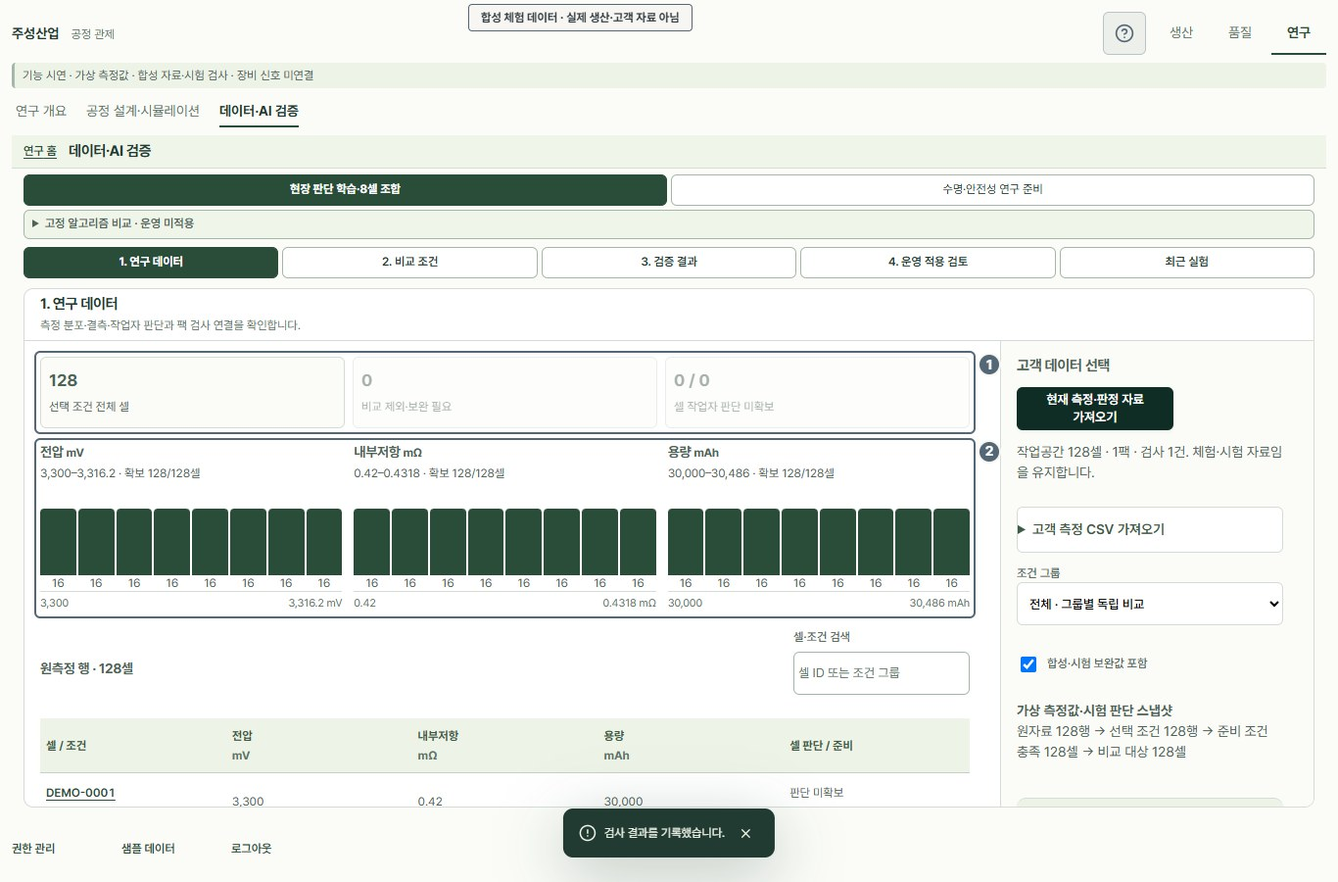
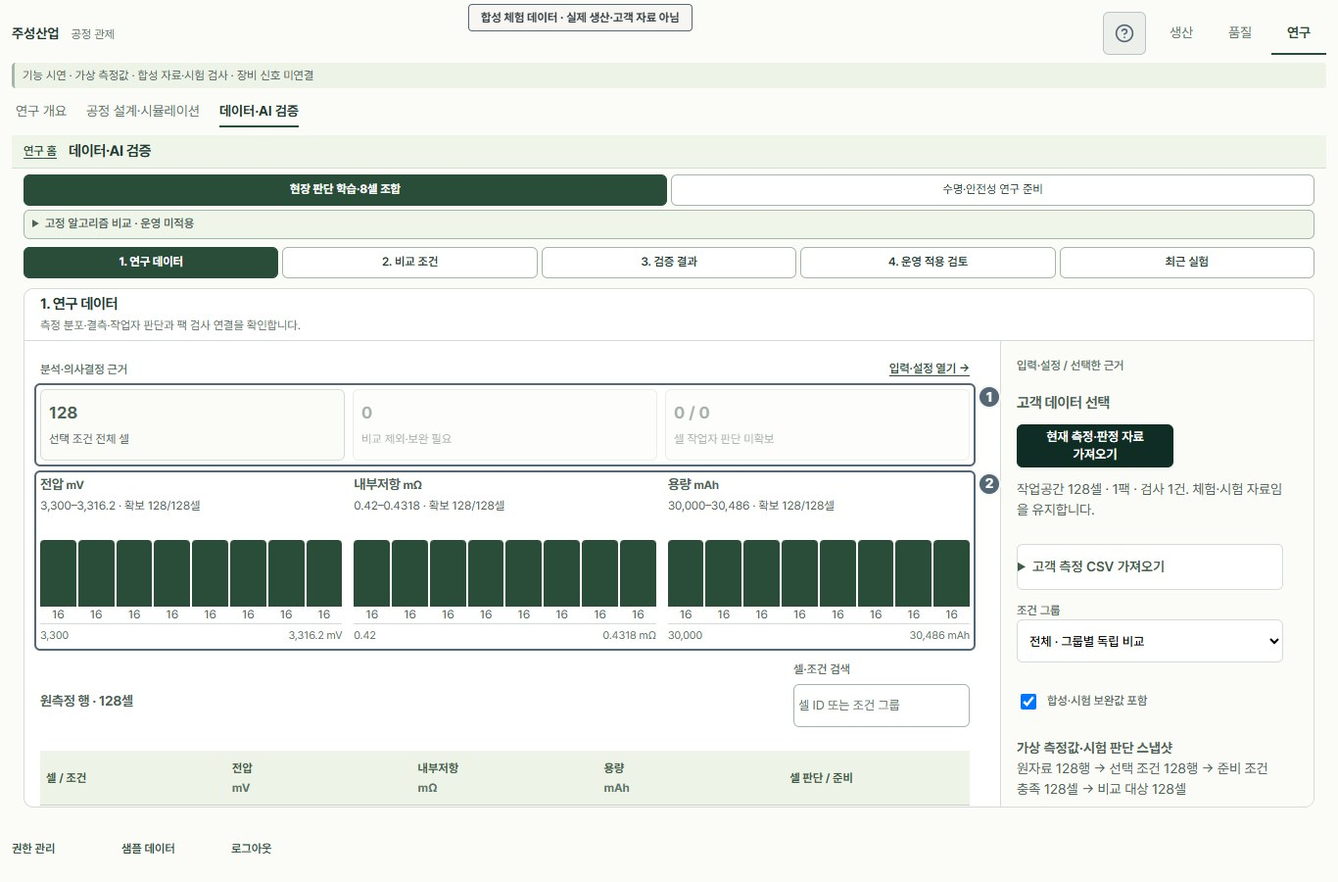
Make research analysis purpose visible before data selection

diff --git a/src/ResearchLab.tsx b/src/ResearchLab.tsx
@@ -1,4 +1,5 @@
 import {useEffect,useRef,useState,type ReactNode,type CSSProperties} from 'react';
+import DecisionPreview from './research/DecisionPreview';
 import FilePicker from './FilePicker';
 import TaskSteps from './TaskSteps';
 import SourceReference from './research/SourceReference';
@@ -20,8 +21,10 @@ const mean=(xs:number[])=>xs.length?xs.reduce((a,b)=>a+b,0)/xs.length:0;
 function Workspace({title,description,left,right,selectionKey,detailVisit}:{title:string;description:string;left:ReactNode;right:ReactNode;selectionKey:string;detailVisit:number}){
  const [pane,setPane]=useState<'evidence'|'controls'>('evidence');const controlRef=useRef<HTMLElement>(null);
  useEffect(()=>{controlRef.current?.scrollTo({top:0});},[selectionKey]);
+ useEffect(()=>{const panel=controlRef.current?.closest('.task-step-panel');if(!panel)return;const observer=new MutationObserver(()=>{if(!panel.hasAttribute('hidden')){controlRef.current?.scrollTo({top:0});setPane('evidence');}});observer.observe(panel,{attributes:true,attributeFilter:['hidden']});return()=>observer.disconnect();},[]);
+ function openInput(){setPane('controls');requestAnimationFrame(()=>{const el=controlRef.current;if(!el)return;el.scrollTo({top:0});const upload=el.querySelector<HTMLDetailsElement>('.research-import');if(upload){upload.open=true;upload.querySelector<HTMLInputElement>('input')?.focus();}});}
  useEffect(()=>{if(detailVisit&&!controlRef.current?.closest('.task-step-panel')?.hasAttribute('hidden'))setPane('controls');controlRef.current?.scrollTo({top:0});},[detailVisit]);
- return <section className="panel field-study-panel"><header className="field-study-heading"><h2>{title}</h2><p>{description}</p></header><nav className="field-mobile-tabs" aria-label={`${title} 화면`}><button aria-pressed={pane==='evidence'} onClick={()=>setPane('evidence')}>분석 근거</button><button aria-pressed={pane==='controls'} onClick={()=>{setPane('controls');requestAnimationFrame(()=>controlRef.current?.scrollTo({top:0}));}}>입력·선택 상세</button></nav><div className={`research-body field-study-workspace field-pane-${pane}`}><section className="field-study-analysis" aria-label={`${title} 분석 근거`}>{left}</section><aside ref={controlRef} className="field-study-controls" aria-label={`${title} 입력과 선택 상세`}>{right}</aside></div></section>;
+ return <section className="panel field-study-panel"><header className="field-study-heading"><h2>{title}</h2><p>{description}</p></header><nav className="field-mobile-tabs" aria-label={`${title} 화면`}><button aria-pressed={pane==='evidence'} onClick={()=>setPane('evidence')}>분석 근거</button><button aria-pressed={pane==='controls'} onClick={()=>{setPane('controls');requestAnimationFrame(()=>controlRef.current?.scrollTo({top:0}));}}>입력·선택 상세</button></nav><div className={`research-body field-study-workspace field-pane-${pane}`}><section className="field-study-analysis" aria-label={`${title} 분석 근거`}><div className="field-analysis-toolbar"><span className="field-region-label">분석·의사결정 근거</span><button className="text-button" onClick={openInput}>입력·설정 열기 →</button></div>{left}</section><aside ref={controlRef} className="field-study-controls" aria-label={`${title} 입력과 선택 상세`}>{!selectionKey&&<div className="field-region-label">입력·설정 / 선택한 근거</div>}{right}</aside></div></section>;
 }
 function evidenceFrom(d:Dataset):FieldEvidence{const saved=d.field_evidence as FieldEvidence|undefined;return saved?.rows? saved:{title:d.title,captured_at:'',rows:d.cells.map((c,i)=>({...c,row:i+1,source:'기존 연구 기록',status:'연구 입력',issues:[]})),packs:[],inspections:[]};}
 export default function ResearchLab({userId,demo=false,canSave=false,ephemeral=false,cells=[],packs=[],inspections=[]}:{userId:string;demo?:boolean;canSave?:boolean;ephemeral?:boolean;cells?:Cell[];packs?:Pack[];inspections?:Inspection[]}){
@@ -51,13 +54,13 @@ export default function ResearchLab({userId,demo=false,canSave=false,ephemeral=f
  const summary=<><p className="field-data-summary"><strong>{dataset?.title||'선택한 자료 없음'}</strong><br/>원자료 {evidence?.rows.length||0}행 → 선택 조건 {rows.length}행 → 준비 조건 충족 {eligible.length}셀 → 비교 대상 {execution.length}셀</p>{shortGroups.length>0&&<p className="field-warning">그룹별 8셀 미만 제외: {shortGroups.map(g=>`${g||'조건 없음'} (${eligible.filter(c=>c.cohort===g).length}셀)`).join(' · ')}</p>}{execution.length>300&&<p className="field-warning">한 번에 300셀까지 비교합니다. 조건 그룹을 좁혀주세요. 임의로 앞부분만 사용하지 않습니다.</p>}</>;
  const picker=<><label>조건 그룹<select aria-label="조건 그룹" disabled={busy||!dataset} value={cohort} onChange={e=>{setCohort(e.target.value);invalidate();}}><option value="all">전체 · 그룹별 독립 비교</option>{cohorts.map(c=><option key={c} value={c}>{c||'조건 없음'}</option>)}</select></label><label className="field-check"><input type="checkbox" checked={includeTrial} disabled={busy} onChange={e=>{setIncludeTrial(e.target.checked);invalidate();}}/>합성·시험 보완값 포함</label>{summary}</>;
  const detail=evidence?<FieldDetail evidence={evidence} ids={ids} onClear={()=>setIds([])}/>:null;
- const blank=<div className="field-empty"><h3>먼저 고객 측정자료를 선택하세요</h3><p>현재 작업공간 자료를 읽거나 고객 CSV를 가져오면 측정 분포, 부족한 값과 판단 연결을 확인할 수 있습니다.</p><button className="secondary" onClick={()=>visit('1. 연구 데이터')}>데이터 준비로</button></div>;
+ const blank=(stage:'data'|'readiness'|'operations')=><DecisionPreview stage={stage}/>;
  return <TaskSteps groups={[{title:'현장 판단 학습·8셀 조합',matches:n=>/^\d\./.test(n)||n==='최근 실험'},{title:'수명·안전성 연구 준비',matches:n=>n==='연구 문헌'}]} className="research-lab" focusKey={resultVisit} focus={focus}>
   <div className="notice research-scope" data-shared><details><summary>고정 알고리즘 비교 · 운영 미적용</summary><p>현재는 고정 알고리즘 비교입니다. 모델 학습과 추론은 후속 구현 대상입니다. {ephemeral?'고객 체험 자료와 기록은 현재 메모리에서만 사용합니다.':'실행 기록은 권한에 따라 브라우저 또는 서버에 저장합니다.'}</p></details>{error&&<p role="alert">{error}</p>}</div>
-  <div data-step="1. 연구 데이터"><Workspace selectionKey={ids.join('|')} detailVisit={detailVisit} title="1. 연구 데이터" description="측정 분포·결측·작업자 판단과 팩 검사 연결을 확인합니다." left={evidence?<><FieldEvidenceView evidence={evidence} rows={rows} includeTrial={includeTrial} ids={ids} onSelect={selectEvidence}/><p className="field-footnote">막대 또는 셀 이름을 선택하면 해당 원행으로 좁혀집니다. 오른쪽 ‘선택한 근거’에서 출처와 판정을 확인합니다. 재고상태는 PASS/FAIL이 아닙니다.</p></>:blank} right={<>{ids.length>0&&detail}<h3>고객 데이터 선택</h3><button className="primary" disabled={busy||!cells.length} onClick={takeSnapshot}>현재 측정·판정 자료 가져오기</button><p>작업공간 {cells.length}셀 · {packs.length}팩 · 검사 {inspections.length}건. {demo?'체험·시험 자료임을 유지합니다.':'읽기 전용으로 가져옵니다.'}</p>{!cells.length&&<p>등록된 셀이 없습니다. 고객 CSV를 가져오거나 셀 검사·재고에서 자료를 등록하세요.</p>}<details className="research-import"><summary>고객 측정 CSV 가져오기</summary><p>필수 식별 열: id, cohort(또는 lot). 수치 열: voltage_mv, resistance_mohm, capacity_mah. 결측은 비워두세요.</p><p>선택 셀 판단: worker_result(PASS/FAIL), judgment_reason, operator, judged_at. 측정 시각은 measured_at에 입력합니다. 팩 검사 결과를 셀 판단 열에 복사하지 마세요.</p><label>데이터 출처<input value={source} disabled={busy} onChange={e=>setSource(e.target.value)}/></label><label>라이선스·이용 조건<input value={license} disabled={busy} onChange={e=>setLicense(e.target.value)}/></label><label>측정 조건·전처리 설명<textarea value={condition} disabled={busy} onChange={e=>setCondition(e.target.value)}/></label><FilePicker accept=".csv" disabledReason={busy?'자료 처리 중입니다.':''} onFile={importFile}>고객 측정 CSV 가져오기</FilePicker></details>{picker}{dataset&&<details className="research-dataset"><summary>출처·측정 조건</summary><p>{dataset.source_url}</p><p>{dataset.condition}</p><p>{dataset.transform}</p></details>}<button className="secondary" onClick={()=>visit('2. 비교 조건')}>학습 준비·비교 조건으로</button>{!ids.length&&detail}</>}/></div>
-  <div data-step="2. 비교 조건"><Workspace selectionKey={ids.join('|')} detailVisit={detailVisit} title="2. 비교 조건" description="학습 준비를 확인하고, 현재 가능한 고정 알고리즘 비교 조건을 정합니다." left={evidence?<><PackLearningReadiness evidence={evidence} rows={rows} onSelect={selectEvidence}/><details className="field-model-state"><summary>셀 개별 판단 · 보조 자료</summary><h3>작업자 판단 학습 모델 · 미구현</h3><p>셀 작업자 판단 {rows.filter(r=>r.judgment).length}/{rows.length}셀 · 사유 포함 {rows.filter(r=>r.judgment?.reason).length}셀. 연결된 팩 검사 {related.length}건.</p><p>셀 개별 라벨은 팩 조합 판정과 구분합니다. 학습·시험 분할, 모델 정확도와 추론 결과는 아직 없습니다.</p></details><FieldEvidenceView evidence={evidence} rows={rows} includeTrial={includeTrial} ids={ids} onSelect={selectEvidence} plots={false}/></>:blank} right={<>{ids.length>0&&detail}<h3>고정 알고리즘 비교 설정</h3>{picker}<div className="research-controls">{keys.map(k=><label key={k}>{labels[k]}<input type="number" min="0.00001" step="any" value={Number.isNaN(limits[k])?'':limits[k]} disabled={busy} onChange={e=>{setLimits({...limits,[k]:e.target.value===''?NaN:Number(e.target.value)});invalidate();}}/></label>)}<label>재현 시드<input type="number" min="0" max="4294967295" value={Number.isNaN(seed)?'':seed} disabled={busy} onChange={e=>{setSeed(e.target.value===''?NaN:Number(e.target.value));invalidate();}}/></label></div><p>허용 편차는 연구 설정이며 운영 SOP·불량 판정 기준이 아닙니다. 내부저항 측정법이 다른 셀은 같은 그룹에 넣지 마세요.</p><button className="primary" disabled={busy||!ready} onClick={run}>{busy?'비교 중…':'알고리즘 비교 실행'}</button>{!ready&&<p>한 조건 그룹 안에 수치가 완비된 셀 8개 이상이 필요합니다.</p>}<p>3개 고정 알고리즘을 같은 셀로 5회 순서 반복합니다. 작업자 판단은 학습에 사용하지 않습니다.</p>{!ids.length&&detail}</>}/></div>
-  <div data-step="3. 검증 결과"><Workspace selectionKey={ids.join('|')} detailVisit={detailVisit} title="3. 검증 결과" description="조합 후보의 편차와 실제 8셀을 함께 확인합니다. 편차 충족은 검사 합격이 아닙니다." left={!report?<div className="field-empty"><h3>아직 비교를 실행하지 않았습니다</h3><p>자료를 선택하고 비교 조건에서 실행하면 후보별 편차와 셀 구성이 표시됩니다. 설정을 바꾸면 이전 결과는 해제됩니다.</p><button className="secondary" onClick={()=>visit(dataset?'2. 비교 조건':'1. 연구 데이터')}>{dataset?'비교 조건으로':'데이터 준비로'}</button></div>:<><div className="research-results"><details className="research-cohort"><summary>전체 알고리즘 비교</summary><div className="table-wrap"><table><thead><tr><th>조건 / 알고리즘</th><th>편차 충족 팩 평균</th><th>미배정 셀 평균</th></tr></thead><tbody>{choices.map((r,i)=><tr key={`${r.cohort}-${r.algorithm}`}><td><button className="text-button" aria-pressed={resultChoice===i} onClick={()=>{setResultChoice(i);setCandidate(0);setIds([]);}}>{r.cohort} · {algorithmNames[r.algorithm]}</button></td><td>{number(mean(r.trials.map(t=>t.accepted)),2)} ({Math.min(...r.trials.map(t=>t.accepted))}–{Math.max(...r.trials.map(t=>t.accepted))})</td><td>{number(mean(r.trials.map(t=>t.unused)),1)}</td></tr>)}</tbody></table></div></details>{proposal?<><h3>후보 {candidate+1} · {proposal.accepted?'연구 편차 충족':'연구 편차 초과'}</h3><div className="candidate-spreads">{keys.map(k=><div key={k}><span>{metricLabels[k]} {number(proposal.spreads[k],5)} / 허용 {report.limits[k]} {metricUnits[k]}</span><div><i className={proposal.spreads[k]>report.limits[k]?'over':''} style={{'--spread-width':`${Math.min(100,proposal.spreads[k]/report.limits[k]*100)}%`} as CSSProperties}/></div></div>)}</div><FieldEvidenceView evidence={evidenceFrom(report.dataset)} rows={evidenceFrom(report.dataset).rows.filter(r=>proposal.ids.includes(r.id))} includeTrial={true} ids={[]} onSelect={selectEvidence} plots={false} compact/></>:<p>선택한 탐색에서 제안한 조합이 없습니다. 불가능하다는 증명은 아닙니다.</p>}</div></>} right={<>{report?<>{ids.length>0&&<FieldDetail evidence={evidenceFrom(report.dataset)} ids={ids} onClear={()=>setIds([])}/>}<h3>비교 후보 선택</h3><p>{report.dataset.title} · 실제 실행 {report.dataset.cells.length}셀</p><label>조건·알고리즘<select value={resultChoice} onChange={e=>{setResultChoice(Number(e.target.value));setCandidate(0);setIds([]);}}>{choices.map((r,i)=><option key={i} value={i}>{r.cohort} · {algorithmNames[r.algorithm]}</option>)}</select></label><label>8셀 후보 (첫 번째 반복)<select value={candidate} onChange={e=>{setCandidate(Number(e.target.value));setIds([]);}}>{chosen?.trials[0]?.groups.map((g,i)=><option key={i} value={i}>후보 {i+1} · {g.accepted?'편차 충족':'편차 초과'}</option>)}</select></label><p>5회 범위는 입력 순서 민감도입니다. 신뢰구간이나 학습 정확도가 아닙니다. ‘무작위 순서’는 현장의 기존 작업 방식이 아닙니다.</p><button className="secondary" onClick={()=>download(`JSI_연구검증_${report.id}.json`,JSON.stringify(report,null,2),'application/json;charset=utf-8')}>검증 보고서 내려받기</button><button className="secondary" onClick={()=>visit('4. 운영 적용 검토')}>운영 검토로</button><details><summary>실행 조건·해시</summary><p>{new Date(report.created_at).toLocaleString('ko-KR')} · 시드 {report.seed}</p><p>{report.scope}</p><p className="research-hash">{report.dataset_sha256}</p></details>{!ids.length&&<FieldDetail evidence={evidenceFrom(report.dataset)} ids={ids} onClear={()=>setIds([])}/>}</>:<><h3>실행 대기</h3>{summary}<p>비교 전에는 모델 성능이나 후보 점수를 표시하지 않습니다.</p></>}</>}/></div>
-  <div data-step="4. 운영 적용 검토"><Workspace selectionKey={ids.join('|')} detailVisit={detailVisit} title="4. 운영 적용 검토" description="기존 팩 구성·검사 사례와 후보의 차이를 검토하고 적용 조건을 남깁니다." left={evidence?<><h3>선택 측정자료에 연결된 기존 팩</h3><p>실제 등록 팩의 구성을 비교 근거로 봅니다. 연구 알고리즘 성과와 인과관계를 주장하지 않습니다.</p>{evidence.packs.filter(p=>p.pack_cells.some(c=>rows.some(r=>r.id===c.cell_id))).map(p=>{const ts=evidence.inspections.filter(t=>t.pack_id===p.id);return <article className="field-operational-case" key={p.id}><button className="text-button" onClick={()=>selectEvidence(p.pack_cells.map(c=>c.cell_id),true)}>{p.serial_no} · 구성 {p.pack_cells.length}셀</button><p>{p.source_kind==='measured'?'현장 실측 구성':p.source_kind==='synthetic'?'시험 구성':'출처 미분류'} · 검사 {ts.length}건 · {ts.map(t=>`${({module:'모듈 검사',casing:'케이싱',aging:'에이징',final:'최종검사'})[t.kind]} ${t.result.toUpperCase()}`).join(' / ')||'검사 미확보'}</p><p>구성 셀: {p.pack_cells.map(c=>c.cell_id).join(' · ')}</p></article>})}{!evidence.packs.some(p=>p.pack_cells.some(c=>rows.some(r=>r.id===c.cell_id)))&&<div className="field-empty"><strong>기존 팩 구성·검사 연결 자료가 없습니다.</strong><p>기존 방식 대비 불량 감소율이나 모델 성능을 계산할 근거가 없습니다. 팩 ID, 구성 셀 ID, 검사 종류·시각·판정·사유를 연결해 확보하세요.</p></div>}{report&&<p>현재 연구 후보: {chosen?.cohort} · {chosen&&algorithmNames[chosen.algorithm]} · {proposal?.ids.join(' · ')||'후보 없음'}</p>}{ids.length>0&&<FieldEvidenceView evidence={evidence} rows={rows.filter(r=>ids.includes(r.id)||ids.includes(`원행:${r.row}`))} includeTrial={includeTrial} ids={[]} onSelect={selectEvidence} plots={false}/>}</>:blank} right={<>{ids.length>0&&detail}<h3>운영 적용 전 확인</h3><p className="field-model-state">현재 상태: 연구 비교 · 운영 미적용</p><ol>{blockers.map(b=><li key={b}>{b}</li>)}</ol><p>{report?'고정 알고리즘 비교 보고서가 있습니다.':'아직 비교 보고서가 없습니다.'} 학습 모델과 현장 독립검증 결과는 미확보입니다.</p><button className="secondary" onClick={()=>visit('3. 검증 결과')}>조합 비교 결과로 돌아가기</button>{!ids.length&&detail}</>}/></div>
+  <div data-step="1. 연구 데이터"><Workspace selectionKey={ids.join('|')} detailVisit={detailVisit} title="1. 연구 데이터" description="측정 분포·결측·작업자 판단과 팩 검사 연결을 확인합니다." left={evidence?<><FieldEvidenceView evidence={evidence} rows={rows} includeTrial={includeTrial} ids={ids} onSelect={selectEvidence}/><p className="field-footnote">막대 또는 셀 이름을 선택하면 해당 원행으로 좁혀집니다. 오른쪽 ‘선택한 근거’에서 출처와 판정을 확인합니다. 재고상태는 PASS/FAIL이 아닙니다.</p></>:blank('data')} right={<>{ids.length>0&&detail}<h3>고객 데이터 선택</h3><button className="primary" disabled={busy||!cells.length} onClick={takeSnapshot}>현재 측정·판정 자료 가져오기</button><p>작업공간 {cells.length}셀 · {packs.length}팩 · 검사 {inspections.length}건. {demo?'체험·시험 자료임을 유지합니다.':'읽기 전용으로 가져옵니다.'}</p>{!cells.length&&<p>등록된 셀이 없습니다. 고객 CSV를 가져오거나 셀 검사·재고에서 자료를 등록하세요.</p>}<details className="research-import"><summary>고객 측정 CSV 가져오기</summary><p>필수 식별 열: id, cohort(또는 lot). 수치 열: voltage_mv, resistance_mohm, capacity_mah. 결측은 비워두세요.</p><p>선택 셀 판단: worker_result(PASS/FAIL), judgment_reason, operator, judged_at. 측정 시각은 measured_at에 입력합니다. 팩 검사 결과를 셀 판단 열에 복사하지 마세요.</p><label>데이터 출처<input value={source} disabled={busy} onChange={e=>setSource(e.target.value)}/></label><label>라이선스·이용 조건<input value={license} disabled={busy} onChange={e=>setLicense(e.target.value)}/></label><label>측정 조건·전처리 설명<textarea value={condition} disabled={busy} onChange={e=>setCondition(e.target.value)}/></label><FilePicker accept=".csv" disabledReason={busy?'자료 처리 중입니다.':''} onFile={importFile}>고객 측정 CSV 가져오기</FilePicker></details>{picker}{dataset&&<details className="research-dataset"><summary>출처·측정 조건</summary><p>{dataset.source_url}</p><p>{dataset.condition}</p><p>{dataset.transform}</p></details>}<button className="secondary" onClick={()=>visit('2. 비교 조건')}>학습 준비·비교 조건으로</button>{!ids.length&&detail}</>}/></div>
+  <div data-step="2. 비교 조건"><Workspace selectionKey={ids.join('|')} detailVisit={detailVisit} title="2. 비교 조건" description="학습 준비를 확인하고, 현재 가능한 고정 알고리즘 비교 조건을 정합니다." left={evidence?<><PackLearningReadiness evidence={evidence} rows={rows} onSelect={selectEvidence}/><details className="field-model-state"><summary>셀 개별 판단 · 보조 자료</summary><h3>작업자 판단 학습 모델 · 미구현</h3><p>셀 작업자 판단 {rows.filter(r=>r.judgment).length}/{rows.length}셀 · 사유 포함 {rows.filter(r=>r.judgment?.reason).length}셀. 연결된 팩 검사 {related.length}건.</p><p>셀 개별 라벨은 팩 조합 판정과 구분합니다. 학습·시험 분할, 모델 정확도와 추론 결과는 아직 없습니다.</p></details><FieldEvidenceView evidence={evidence} rows={rows} includeTrial={includeTrial} ids={ids} onSelect={selectEvidence} plots={false}/></>:blank('readiness')} right={<>{ids.length>0&&detail}<h3>고정 알고리즘 비교 설정</h3>{picker}<div className="research-controls">{keys.map(k=><label key={k}>{labels[k]}<input type="number" min="0.00001" step="any" value={Number.isNaN(limits[k])?'':limits[k]} disabled={busy} onChange={e=>{setLimits({...limits,[k]:e.target.value===''?NaN:Number(e.target.value)});invalidate();}}/></label>)}<label>재현 시드<input type="number" min="0" max="4294967295" value={Number.isNaN(seed)?'':seed} disabled={busy} onChange={e=>{setSeed(e.target.value===''?NaN:Number(e.target.value));invalidate();}}/></label></div><p>허용 편차는 연구 설정이며 운영 SOP·불량 판정 기준이 아닙니다. 내부저항 측정법이 다른 셀은 같은 그룹에 넣지 마세요.</p><button className="primary" disabled={busy||!ready} onClick={run}>{busy?'비교 중…':'알고리즘 비교 실행'}</button>{!ready&&<p>한 조건 그룹 안에 수치가 완비된 셀 8개 이상이 필요합니다.</p>}<p>3개 고정 알고리즘을 같은 셀로 5회 순서 반복합니다. 작업자 판단은 학습에 사용하지 않습니다.</p>{!ids.length&&detail}</>}/></div>
+  <div data-step="3. 검증 결과"><Workspace selectionKey={ids.join('|')} detailVisit={detailVisit} title="3. 검증 결과" description="조합 후보의 편차와 실제 8셀을 함께 확인합니다. 편차 충족은 검사 합격이 아닙니다." left={!report?<DecisionPreview stage="results" action={<button className="secondary" onClick={()=>visit(dataset?'2. 비교 조건':'1. 연구 데이터')}>{dataset?'비교 조건으로':'데이터 준비로'}</button>}/>:<><div className="research-results"><details className="research-cohort"><summary>전체 알고리즘 비교</summary><div className="table-wrap"><table><thead><tr><th>조건 / 알고리즘</th><th>편차 충족 팩 평균</th><th>미배정 셀 평균</th></tr></thead><tbody>{choices.map((r,i)=><tr key={`${r.cohort}-${r.algorithm}`}><td><button className="text-button" aria-pressed={resultChoice===i} onClick={()=>{setResultChoice(i);setCandidate(0);setIds([]);}}>{r.cohort} · {algorithmNames[r.algorithm]}</button></td><td>{number(mean(r.trials.map(t=>t.accepted)),2)} ({Math.min(...r.trials.map(t=>t.accepted))}–{Math.max(...r.trials.map(t=>t.accepted))})</td><td>{number(mean(r.trials.map(t=>t.unused)),1)}</td></tr>)}</tbody></table></div></details>{proposal?<><h3>후보 {candidate+1} · {proposal.accepted?'연구 편차 충족':'연구 편차 초과'}</h3><div className="candidate-spreads">{keys.map(k=><div key={k}><span>{metricLabels[k]} {number(proposal.spreads[k],5)} / 허용 {report.limits[k]} {metricUnits[k]}</span><div><i className={proposal.spreads[k]>report.limits[k]?'over':''} style={{'--spread-width':`${Math.min(100,proposal.spreads[k]/report.limits[k]*100)}%`} as CSSProperties}/></div></div>)}</div><FieldEvidenceView evidence={evidenceFrom(report.dataset)} rows={evidenceFrom(report.dataset).rows.filter(r=>proposal.ids.includes(r.id))} includeTrial={true} ids={[]} onSelect={selectEvidence} plots={false} compact/></>:<p>선택한 탐색에서 제안한 조합이 없습니다. 불가능하다는 증명은 아닙니다.</p>}</div></>} right={<>{report?<>{ids.length>0&&<FieldDetail evidence={evidenceFrom(report.dataset)} ids={ids} onClear={()=>setIds([])}/>}<h3>비교 후보 선택</h3><p>{report.dataset.title} · 실제 실행 {report.dataset.cells.length}셀</p><label>조건·알고리즘<select value={resultChoice} onChange={e=>{setResultChoice(Number(e.target.value));setCandidate(0);setIds([]);}}>{choices.map((r,i)=><option key={i} value={i}>{r.cohort} · {algorithmNames[r.algorithm]}</option>)}</select></label><label>8셀 후보 (첫 번째 반복)<select value={candidate} onChange={e=>{setCandidate(Number(e.target.value));setIds([]);}}>{chosen?.trials[0]?.groups.map((g,i)=><option key={i} value={i}>후보 {i+1} · {g.accepted?'편차 충족':'편차 초과'}</option>)}</select></label><p>5회 범위는 입력 순서 민감도입니다. 신뢰구간이나 학습 정확도가 아닙니다. ‘무작위 순서’는 현장의 기존 작업 방식이 아닙니다.</p><button className="secondary" onClick={()=>download(`JSI_연구검증_${report.id}.json`,JSON.stringify(report,null,2),'application/json;charset=utf-8')}>검증 보고서 내려받기</button><button className="secondary" onClick={()=>visit('4. 운영 적용 검토')}>운영 검토로</button><details><summary>실행 조건·해시</summary><p>{new Date(report.created_at).toLocaleString('ko-KR')} · 시드 {report.seed}</p><p>{report.scope}</p><p className="research-hash">{report.dataset_sha256}</p></details>{!ids.length&&<FieldDetail evidence={evidenceFrom(report.dataset)} ids={ids} onClear={()=>setIds([])}/>}</>:<><h3>실행 대기</h3>{summary}<p>비교 전에는 모델 성능이나 후보 점수를 표시하지 않습니다.</p></>}</>}/></div>
+  <div data-step="4. 운영 적용 검토"><Workspace selectionKey={ids.join('|')} detailVisit={detailVisit} title="4. 운영 적용 검토" description="기존 팩 구성·검사 사례와 후보의 차이를 검토하고 적용 조건을 남깁니다." left={evidence?<><h3>선택 측정자료에 연결된 기존 팩</h3><p>실제 등록 팩의 구성을 비교 근거로 봅니다. 연구 알고리즘 성과와 인과관계를 주장하지 않습니다.</p>{evidence.packs.filter(p=>p.pack_cells.some(c=>rows.some(r=>r.id===c.cell_id))).map(p=>{const ts=evidence.inspections.filter(t=>t.pack_id===p.id);return <article className="field-operational-case" key={p.id}><button className="text-button" onClick={()=>selectEvidence(p.pack_cells.map(c=>c.cell_id),true)}>{p.serial_no} · 구성 {p.pack_cells.length}셀</button><p>{p.source_kind==='measured'?'현장 실측 구성':p.source_kind==='synthetic'?'시험 구성':'출처 미분류'} · 검사 {ts.length}건 · {ts.map(t=>`${({module:'모듈 검사',casing:'케이싱',aging:'에이징',final:'최종검사'})[t.kind]} ${t.result.toUpperCase()}`).join(' / ')||'검사 미확보'}</p><p>구성 셀: {p.pack_cells.map(c=>c.cell_id).join(' · ')}</p></article>})}{!evidence.packs.some(p=>p.pack_cells.some(c=>rows.some(r=>r.id===c.cell_id)))&&<div className="field-empty"><strong>기존 팩 구성·검사 연결 자료가 없습니다.</strong><p>기존 방식 대비 불량 감소율이나 모델 성능을 계산할 근거가 없습니다. 팩 ID, 구성 셀 ID, 검사 종류·시각·판정·사유를 연결해 확보하세요.</p></div>}{report&&<p>현재 연구 후보: {chosen?.cohort} · {chosen&&algorithmNames[chosen.algorithm]} · {proposal?.ids.join(' · ')||'후보 없음'}</p>}{ids.length>0&&<FieldEvidenceView evidence={evidence} rows={rows.filter(r=>ids.includes(r.id)||ids.includes(`원행:${r.row}`))} includeTrial={includeTrial} ids={[]} onSelect={selectEvidence} plots={false}/>}</>:blank('operations')} right={<>{ids.length>0&&detail}<h3>운영 적용 전 확인</h3><p className="field-model-state">현재 상태: 연구 비교 · 운영 미적용</p><ol>{blockers.map(b=><li key={b}>{b}</li>)}</ol><p>{report?'고정 알고리즘 비교 보고서가 있습니다.':'아직 비교 보고서가 없습니다.'} 학습 모델과 현장 독립검증 결과는 미확보입니다.</p><button className="secondary" onClick={()=>visit('3. 검증 결과')}>조합 비교 결과로 돌아가기</button>{!ids.length&&detail}</>}/></div>
   <section className="panel" data-step="연구 문헌"><div className="section-head"><div><h2>연구 문헌</h2><p>테마 2 · 문헌·데이터셋·스키마 등록 → 고객 데이터 비교 → 추가 확보 항목 확인</p></div></div><LiteratureRegistry key={userId} userId={userId} demo={demo} canSave={canSave} ephemeral={ephemeral}/><details className="research-reference-notes"><summary>공개 데이터의 출처와 측정 차이</summary><SourceReference id="uconn-original">UConn 원본 데이터 (CC BY 4.0)</SourceReference><SourceReference id="uconn-processed">UConn 연구진 전처리 자료 (MIT 라이선스)</SourceReference><p>UConn은 셀의 현재 용량·성능 유지, Severson은 셀의 총 수명 사이클 연구입니다. 셀 연구를 조합한 팩의 수명·안전성 보증으로 사용하지 않습니다. 기존 UConn 비교 이력의 1.2Ah 펄스 저항·전압을 고객 OCV·ACIR과 동일시하지 않습니다.</p></details></section>
   <section className="panel"><div className="section-head"><div><h2>최근 실험</h2><p>{ephemeral?'현재 체험 메모리에만 보관합니다.':demo?'이 브라우저의 최근 10건':'본인의 최근 서버 기록 10건'} · 기존 공개 연구 비교 이력도 열 수 있습니다.</p></div></div><div className="research-body">{!history.length?<p>아직 실행한 실험이 없습니다.</p>:<div className="research-history">{history.map(r=><button className="secondary" key={r.id} disabled={busy} onClick={()=>{setDataset(r.dataset);setEvidence(evidenceFrom(r.dataset));setLimits({...r.limits});setSeed(r.seed);setCohort((r.dataset.preparation as {selected_cohort?:string}|undefined)?.selected_cohort||'all');setIncludeTrial((r.dataset.preparation as {include_trial?:boolean}|undefined)?.include_trial??true);setReport(r);setIds([]);setResultChoice(0);setCandidate(0);visit('3. 검증 결과');setError('');}}>{new Date(r.created_at).toLocaleString('ko-KR')} · {r.dataset.title} · 시드 {r.seed}</button>)}</div>}</div></section>
  </TaskSteps>;

diff --git a/src/manual/content.ts b/src/manual/content.ts
@@ -12,7 +12,7 @@ export const scenarios:ManualScenario[]=[
  {id:'quality',title:'품질 지표·분석·보고',role:'승인권자·관리자·조회자',start:'실측·시험·전체 중 판단할 집계 대상을 선택합니다.',steps:[{title:'집계 대상 확인',body:'시험 결과와 생산 실측을 구분합니다. 값이 없으면 —로 표시되며 0% 불량이라는 뜻이 아닙니다.',target:'[aria-label="지표 집계 대상"], [aria-label="비교 집계 대상"]'},{title:'지표의 근거 확인',body:'최신 최종검사 불량률과 초도 불량률을 구분합니다. 재검사 후 최신 값이 달라질 수 있습니다.',target:'.console-quality-summary, .outcome-comparison'},{title:'조치·보고로 연결',body:'누락 또는 불합격 대상 이력을 확인하고 보고서를 내려받습니다. 보고서의 집계 범위와 시험 구분도 확인합니다.',target:'.report, .outcome-card'}],criteria:'불량률, 검사 이력 연결, 공정별 대기, 처리 상황을 구분합니다. 소프트웨어 시험 수치는 실제 생산 개선 성과가 아닙니다.',exception:'조회 실패·오래된 조회본이면 최신 상태를 확인하기 전 최종 판단을 보류합니다.',done:'해석 가능한 지표와 근거를 바탕으로 후속 조치 또는 보고를 수행합니다.'},
  {id:'intake',title:'검사 이력 연결·데이터 인입',role:'품질·공정 담당자',start:'품질 지표의 집계 범위를 확인합니다.',steps:[{title:'연결 상태 확인',body:'8셀 구성과 필수 공정 기록이 모두 연결된 팩의 비율을 확인합니다.',target:'.console-quality-summary'},{title:'누락 대상 찾기',body:'품질 현황의 검사 연결률을 누르면 현재 집계 범위의 미연결 팩만 조회합니다.',target:'.console-quality-summary button:nth-child(2)'},{title:'측정 자료 준비',body:'생산의 셀 검사·재고에서 출처와 유효성을 검토한 뒤 등록합니다.',target:'.console-mode'}],criteria:'연결률은 검사 연결 정도이며 합격률이 아닙니다. 미완료 팩도 분모에 포함됩니다.',exception:'미연결 팩이 없으면 불필요하게 재검사를 입력하지 않습니다. 데이터가 없다면 먼저 등록 경로를 확인합니다.',done:'누락의 원인이 되는 자료 또는 공정을 찾아 보완합니다.'},
  {id:'twin',title:'공정 설계와 효율 시뮬레이션',role:'공정 설계·연구 담당자',start:'장비와 작업 순서·확보 데이터를 설계하고 작업 효율을 비교합니다.',steps:[{title:'장비와 작업 순서',body:'장비 추가에서 장비를 선택한 뒤 장비 편집에서 이름과 운영 단계를 지정합니다. 작업 순서에서 위·아래 버튼으로 순서를 조정하고 장비 편집으로 돌아옵니다.',target:'.designer-equipment-tabs, .designer-route'},{title:'데이터 확보 계획',body:'장비를 선택하고 확보 데이터에서 수집할 항목을 선택합니다. 왼쪽에서 분석별 부족 항목을 확인합니다.',target:'.designer-coverage, .designer-data'},{title:'효율 추정',body:'작업 제목 줄의 시뮬레이션 · 작업 효율을 선택해 목표 수량, 처리시간, 작업자 시간, 동시 처리 수, 병렬 장비 수를 입력합니다.',target:'.designer-inputs, .designer-metrics'},{title:'대안 비교',body:'현재 안을 비교 기준으로 고정한 뒤 조건을 변경해 전체 완료시간을 비교합니다.',target:'.designer-timeline, .designer-metrics'},{title:'저장과 승인',body:'저장·승인에서 개인 설계를 저장하거나 JSON으로 보관합니다. 제목 줄의 공정 승인함으로 제출 상태를 확인합니다. 승인 요청 후 독립 승인자가 검토하면 신규 팩의 생산·품질 기준에 반영됩니다.',target:'.designer-inspector:has(form)',priority:1}],criteria:'입력 조건 기반 추정입니다. 장비별 인력이 충분하다고 가정하며 고장·재검사·매칭 탈락은 계산하지 않습니다. 확보 계획은 실제 데이터나 수명·안전성 검증 결과가 아닙니다.',exception:'운영 반영은 기존 6단계 순서가 모두 포함되어야 합니다. 시간·데이터 근거를 검토하고 변경한 설계는 재승인받습니다.',done:'승인한 공정 버전을 생산·품질에서 확인합니다. 기존 팩은 생성 당시 버전을 유지합니다.'},
- {id:'research',title:'현장 조합 연구와 데이터 준비',role:'분석·검증 담당자',start:'현장 판단 학습·8셀 조합과 수명·안전성 연구 준비 중 목적을 정합니다.',steps:[{title:'목적에 맞는 도구 선택',body:'테마 1은 현장 측정값·작업자 판단 학습을 통한 8셀 조합을 목표로 하며 현재는 고정 알고리즘 비교를 제공합니다. 테마 2에서는 연구 문헌·데이터셋·스키마를 등록하고 선택한 연구의 데이터 준비 비교에서 고객 CSV의 추가 확보 항목을 확인합니다.',target:'.research-lab > .task-group-tabs, .research-lab > .visible-task-tabs'},{title:'출처·조건 확인',body:'현재 측정·판정 자료나 고객 CSV를 선택합니다. 왼쪽 분포와 결측에서 원행을 고르면 출처·셀 작업자 판단·연결 팩 검사를 확인합니다. 팩 검사는 셀별 합격 라벨이 아닙니다.',target:'.field-study-analysis, .field-study-controls'},{title:'실행 결과 해석·보관',body:'비교 조건에서 8셀 구성과 검사 종류별 팩 판정의 기초 연결·부족 항목을 확인합니다. 팩 근거를 선택해 사유와 원측정값을 보고 설정으로 돌아올 수 있습니다. 학습 모델은 미구현이며 고정 알고리즘 비교만 실행합니다. 검증 결과에서 후보 편차와 8셀을 확인하고 전체 알고리즘 비교를 펼쳐 방법을 비교합니다. 보고서는 원행·실행대상·설정을 함께 보관합니다.',target:'.research-results, .research-body, .data-validation, .pretrained-explorer'},{title:'수명·안전성 정보 구분',body:'UConn은 공개 특징값으로 용량 추정을 재생합니다. Severson은 시험 기록의 용량 변화를 관찰합니다. 둘 다 주성산업 8셀 팩의 수명·안전성을 예측하거나 품질을 승인하는 기능은 아닙니다.',target:'.pretrained-explorer, .severson-explorer'}],criteria:'데이터 스키마 충족은 예측 성능 인증이 아닙니다. 연구 결과는 운영 셀·팩·품질 지표에 자동 반영되지 않습니다.',exception:'자료나 조건이 부족하면 미검증으로 남깁니다. 외부 링크가 열리지 않으면 화면의 보관된 근거 요약을 확인합니다.',done:'재현 가능한 비교 근거와 현장 적용 전 추가 검증 항목을 확보합니다.'},
+ {id:'research',title:'현장 조합 연구와 데이터 준비',role:'분석·검증 담당자',start:'현장 판단 학습·8셀 조합과 수명·안전성 연구 준비 중 목적을 정합니다.',steps:[{title:'목적에 맞는 도구 선택',body:'테마 1은 현장 측정값·작업자 판단 학습을 통한 8셀 조합을 목표로 하며 현재는 고정 알고리즘 비교를 제공합니다. 테마 2에서는 연구 문헌·데이터셋·스키마를 등록하고 선택한 연구의 데이터 준비 비교에서 고객 CSV의 추가 확보 항목을 확인합니다.',target:'.research-lab > .task-group-tabs, .research-lab > .visible-task-tabs'},{title:'출처·조건 확인',body:'자료 선택 전에도 왼쪽 분석·의사결정 근거에서 단계별 비교 목적과 자료 대기 영역을 확인합니다. 입력·설정 열기로 고객 CSV 등록에 접근하거나 현재 측정·판정 자료를 선택합니다. 왼쪽 분포와 결측에서 원행을 고르면 출처·셀 작업자 판단·연결 팩 검사를 확인합니다. 팩 검사는 셀별 합격 라벨이 아닙니다.',target:'.field-study-analysis, .field-study-controls'},{title:'실행 결과 해석·보관',body:'비교 조건에서 8셀 구성과 검사 종류별 팩 판정의 기초 연결·부족 항목을 확인합니다. 팩 근거를 선택해 사유와 원측정값을 보고 설정으로 돌아올 수 있습니다. 학습 모델은 미구현이며 고정 알고리즘 비교만 실행합니다. 검증 결과에서 후보 편차와 8셀을 확인하고 전체 알고리즘 비교를 펼쳐 방법을 비교합니다. 보고서는 원행·실행대상·설정을 함께 보관합니다.',target:'.research-results, .research-body, .data-validation, .pretrained-explorer'},{title:'수명·안전성 정보 구분',body:'UConn은 공개 특징값으로 용량 추정을 재생합니다. Severson은 시험 기록의 용량 변화를 관찰합니다. 둘 다 주성산업 8셀 팩의 수명·안전성을 예측하거나 품질을 승인하는 기능은 아닙니다.',target:'.pretrained-explorer, .severson-explorer'}],criteria:'데이터 스키마 충족은 예측 성능 인증이 아닙니다. 연구 결과는 운영 셀·팩·품질 지표에 자동 반영되지 않습니다.',exception:'자료나 조건이 부족하면 미검증으로 남깁니다. 외부 링크가 열리지 않으면 화면의 보관된 근거 요약을 확인합니다.',done:'재현 가능한 비교 근거와 현장 적용 전 추가 검증 항목을 확보합니다.'},
  {id:'members',title:'가입 승인·공정 배정·승인권',role:'시스템 관리자',start:'직원의 신원과 수행할 업무를 확인합니다.',steps:[{title:'가입 상태 확인',body:'가입 신청자의 계정을 확인해 승인·반려합니다. 조회자와 업무 구성원의 역할을 구분합니다.',target:'.table-wrap'},{title:'담당 공정 배정',body:'셀 등록·매칭·케이싱, 모듈 검사·기존 에이징, 최종검사 중 실제 담당 공정을 지정합니다.',target:'.member-permission-fields fieldset, .member-permissions summary'},{title:'최종 승인권 별도 할당',body:'품질 승인 업무를 맡은 사람에게 별도로 승인권을 부여합니다. 관리자라는 이유로 최종 품질 승인을 수행하지 않습니다.',target:'.member-permission-fields > button, .member-permissions summary'}],criteria:'가입 승인과 업무 권한 설정을 각각 확인합니다. 독립 승인 원칙은 권한 할당 후에도 적용됩니다.',exception:'공개 체험에서는 실제 사용자 권한을 바꾸지 않습니다. 이동·퇴사 시 담당 공정과 이용 상태를 점검합니다.',done:'직원이 필요한 업무만 수행할 수 있도록 역할·공정·승인권이 설정됩니다.'},
  {id:'sample',title:'샘플·고객 제공 데이터 체험',role:'체험 사용자·승인된 고객 자료 사용자',start:'가상 데이터로 공정 체험은 빈 재고에서 시작합니다. 가상 측정 파일 받기 → 파일 가져오기 → 검증·등록 → 용량별 재고 확인 → 8셀 조합 → 모듈 검사 → 케이싱 → 최종검사 → 품질 승인 순으로 진행합니다. 파일 등록 단계에서 예시 셀로 다음 단계를 누르면 가상 셀 128개로 용량별 재고 확인부터 진행합니다.',steps:[{title:'전체 컬럼과 값 조회',body:'로그인 후 고객 데이터 체험에 들어가 샘플 데이터의 전체 항목을 엽니다. 원자료를 선택하면 원래 컬럼명과 모든 값을 조회할 수 있습니다. 충방전 기록과 PoC 2~4번째 탭을 제공하며 첫 품질 기준 설명 탭은 제외합니다. 가로 스크롤과 이전·다음 자료로 이동합니다.',target:'.source-tables',priority:10},{title:'원본과 보완값 구분',body:'공개 체험의 셀은 기능 시연용 가상값입니다. 로그인 후 고객 데이터 체험에서는 원자료와 시험 보완값 표시를 비교합니다. 보완 내부저항은 실측이 아닙니다.',target:'.sample-value-grid, .sample-data-body, .private-demo-entry'},{title:'출처·날짜 확인',body:'파일 출처와 메타정보 날짜를 확인합니다. 파일 생성·수정일을 실제 제공일로 단정하지 않습니다.',target:'.sample-main-tabs > button:last-child, .sample-field-tabs > button:last-child, .private-demo-entry'},{title:'업무로 돌아가기',body:'샘플 조회의 업무로 돌아가기는 체험 작업으로 복귀합니다. 체험 종료 후 선택 화면의 제목 위 홈 아이콘을 누르면 운영 화면으로 돌아갑니다.',target:'.sample-data-view .console-task-heading > button, .private-demo-home'}],criteria:'원자료 모드는 결측을 유지합니다. 보완값을 사용한 업무 체험 결과를 원본 SOP 전체 통과로 표현하지 않습니다.',exception:'고객 자료 접근 권한이 없으면 관리자에게 문의합니다. 실제 원본·비밀번호를 공개 저장소나 공개 체험에 넣지 않습니다.',done:'데이터 출처와 보완 범위를 이해한 상태로 연습하거나 근거를 검토합니다.'}
 ];

diff --git a/src/research/LiteratureRegistry.tsx b/src/research/LiteratureRegistry.tsx
@@ -28,7 +28,7 @@ export default function LiteratureRegistry({userId,demo,canSave,ephemeral}:{user
   <div className="literature-toolbar"><label>연구 분류<select value={filter} onChange={e=>setFilter(e.target.value)}><option value="all">전체</option>{Object.entries(topics).map(([v,t])=><option key={v} value={v}>{t}</option>)}</select></label><button className="secondary" disabled={loading} onClick={()=>download('JSI_research_literature.json',JSON.stringify({schema_version:1,exported_at:new Date().toISOString(),scope:'참고 문헌 목록. 모델 실행·고객 팩 검증·운영 승인이 아님.',studies:all},null,2),'application/json')}>문헌 목록 내보내기</button></div>
 
   {error&&<p role="alert">{error}</p>}{notice&&<p role="status">{notice}</p>}
-  <div className="literature-layout"><div className="literature-list" aria-label="등록 문헌">{loading&&<p>문헌을 불러옵니다.</p>}{!visible.length&&<p>이 분류에 등록된 문헌이 없습니다.</p>}{visible.map(r=><button className={r.id===row?.id?'primary':'secondary'} key={r.id} aria-pressed={r.id===row?.id} onClick={()=>{setSelected(r.id);setForm(null);}}><strong>{r.title}</strong><span>{topics[r.topic]} · {targets[r.target]} · {statuses[r.status]}</span></button>)}</div>
+  <div className="literature-layout"><div className="literature-list" aria-label="등록 문헌"><h3>연구별 분석 목적</h3>{loading&&<p>문헌을 불러옵니다.</p>}{!visible.length&&<p>이 분류에 등록된 문헌이 없습니다.</p>}{visible.map(r=><button className={r.id===row?.id?'primary':'secondary'} key={r.id} aria-pressed={r.id===row?.id} onClick={()=>{setSelected(r.id);setForm(null);}}><strong>{r.title}</strong><span>{topics[r.topic]} · {targets[r.target]} · {statuses[r.status]}</span></button>)}{row&&<section className="study-decision-map" aria-label="선택 연구 활용 범위"><h3>이 연구로 확인할 것</h3><ol><li><small>연구 대상</small><strong>{targets[row.target]} · {topics[row.topic]}</strong></li><li><small>요구 데이터</small><strong>{row.data_schema?.fields.length||0}개 등록 항목</strong><span>{row.data_schema?.fields.filter(f=>f.required).length||0}개 필수 · 고객 CSV와 비교</span></li><li><small>비교 후 결정</small><strong>추가 수집·보완할 항목</strong></li></ol><button className="secondary" onClick={()=>setPane('readiness')}>이 연구의 데이터 준비 비교</button><p className="muted">문헌의 적용 범위와 데이터 준비를 확인합니다. 팩 수명·안전성 추론 결과가 아닙니다.</p></section>}</div>
   {row&&<article className="literature-detail"><nav className="study-pane-tabs" aria-label="선택 연구 작업"><button className={pane==='literature'?'primary':'secondary'} onClick={()=>setPane('literature')}>문헌·스키마</button><button className={pane==='readiness'?'primary':'secondary'} onClick={()=>setPane('readiness')}>데이터 준비 비교</button></nav>{pane==='readiness'?<StudyReadiness key={row.id+JSON.stringify(row.data_schema)} study={row}/>:<><h3>{row.title}</h3><p>{row.purpose}</p><p className="muted">{row.authors} {row.year} · {targets[row.target]} · {statuses[row.status]}</p><a href={row.url} target="_blank" rel="noopener noreferrer">원문 보기</a><dl><dt>필요 데이터</dt><dd>{row.inputs||'확인 전'}</dd><dt>적용 조건</dt><dd>{row.conditions||'확인 전'}</dd><dt>검증 근거·한계</dt><dd>{row.evidence||'확인 전'}</dd></dl>{row.data_schema?.fields.length?<p>등록 스키마: {row.data_schema.version} · {row.data_schema.fields.length}개 항목</p>:<p>데이터 스키마 등록 전</p>}<p className="muted">문헌 등록·적용 후보 지정은 고객 팩 검증 완료나 운영 승인이 아닙니다.</p>
   {!builtin&&write&&row.created_by===userId&&<button className="secondary" onClick={()=>{setForm({...row});setError('');}}>문헌 수정</button>}
   {row.id==='uconn'&&<details><summary>공개 모델 추론 · 참고 도구 열기</summary><PretrainedExplorer/></details>}{row.id==='severson'&&<details><summary>Severson 열화 이력 · 참고 도구 열기</summary><SeversonExplorer/></details>}

diff --git a/tests/field-study.spec.ts b/tests/field-study.spec.ts
@@ -6,7 +6,7 @@ for(const width of [1366,900,390])test(`customer evidence, missing values and re
  await page.setViewportSize({width,height:844});await start(page);
  const steps=page.locator('.research-lab > .visible-task-tabs');await expect(steps.getByRole('button')).toHaveCount(5);
  await expect(page.getByRole('button',{name:'UConn 공개 데이터 불러오기'})).toHaveCount(0);
- await step(page,'3. 검증 결과');await expect(page.getByRole('heading',{name:'아직 비교를 실행하지 않았습니다'})).toBeVisible();
+ await step(page,'3. 검증 결과');await expect(page.getByRole('heading',{name:'어떤 8셀 후보가 설정한 편차를 충족하나요?'})).toBeVisible();
  await step(page,'1. 연구 데이터');await researchSide(page,'controls');
  await page.locator('.research-import > summary').click();
  await page.getByLabel('데이터 출처',{exact:true}).fill('고객 검증 자료');await page.getByLabel('라이선스·이용 조건',{exact:true}).fill('내부 검토');await page.getByLabel('측정 조건·전처리 설명',{exact:true}).fill('동일 LOT·온도·SOC·측정법');
@@ -25,7 +25,7 @@ for(const width of [1366,900,390])test(`customer evidence, missing values and re
  expect(await page.evaluate(()=>document.documentElement.scrollWidth<=innerWidth+1)).toBe(true);
 });
 test('current snapshot stays synthetic, candidate results reopen and remain separate from operations',async({page})=>{
- await start(page);await page.getByRole('button',{name:'현재 측정·판정 자료 가져오기',exact:true}).click();await expect(page.locator('.task-step-panel:visible .field-data-summary')).toContainText('128행');await step(page,'2. 비교 조건');await page.getByRole('button',{name:'알고리즘 비교 실행',exact:true}).click();await expect(page.locator('.research-cohort tbody tr')).toHaveCount(12);await step(page,'최근 실험');await page.locator('.research-history button').first().click();await expect(page.getByRole('heading',{name:'3. 검증 결과',exact:true})).toBeVisible();await expect(page.locator('.research-cohort tbody tr')).toHaveCount(12);await step(page,'1. 연구 데이터');await page.getByLabel('합성·시험 보완값 포함',{exact:true}).first().uncheck();await expect(page.locator('.task-step-panel:visible .field-data-summary')).toContainText('비교 대상 0셀');await step(page,'3. 검증 결과');await expect(page.getByRole('heading',{name:'아직 비교를 실행하지 않았습니다'})).toBeVisible();
+ await start(page);await page.getByRole('button',{name:'현재 측정·판정 자료 가져오기',exact:true}).click();await expect(page.locator('.task-step-panel:visible .field-data-summary')).toContainText('128행');await step(page,'2. 비교 조건');await page.getByRole('button',{name:'알고리즘 비교 실행',exact:true}).click();await expect(page.locator('.research-cohort tbody tr')).toHaveCount(12);await step(page,'최근 실험');await page.locator('.research-history button').first().click();await expect(page.getByRole('heading',{name:'3. 검증 결과',exact:true})).toBeVisible();await expect(page.locator('.research-cohort tbody tr')).toHaveCount(12);await step(page,'1. 연구 데이터');await page.getByLabel('합성·시험 보완값 포함',{exact:true}).first().uncheck();await expect(page.locator('.task-step-panel:visible .field-data-summary')).toContainText('비교 대상 0셀');await step(page,'3. 검증 결과');await expect(page.getByRole('heading',{name:'어떤 8셀 후보가 설정한 편차를 충족하나요?'})).toBeVisible();
 });
 
 test('stored preparation restores its cohort and changing candidates clears unrelated cell evidence',async({page})=>{

diff --git a/src/research/DecisionPreview.tsx b/src/research/DecisionPreview.tsx
@@ -1,0 +1,8 @@
+import type {ReactNode} from 'react';
+const views={
+ data:{title:'어떤 셀을 비교할 수 있나요?',description:'측정 분포·결측·판단 연결로 비교할 셀을 고릅니다.',items:[['전압','mV · 측정값 분포'],['내부저항','mΩ · 측정값 분포'],['용량','mAh · 측정값 분포']],steps:['측정값 확보','결측·조건 확인','작업자 판단 연결'],next:'입력·설정에서 현재 자료를 선택하거나 고객 CSV를 가져오세요.'},
+ readiness:{title:'8셀 조합 연구에 필요한 근거가 연결됐나요?',description:'구성 셀과 팩 검사 기록을 연결해 학습 전 부족한 자료를 확인합니다.',items:[['구성 8셀','팩 ID · 구성 셀 ID'],['검사·판정','검사 종류 · PASS/FAIL'],['판단 근거','작업자 · 시각 · 사유']],steps:['셀–팩 연결','검사 기록 연결','보완 항목 확인'],next:'먼저 연구 데이터에서 자료를 선택하세요. 학습 모델은 아직 구현되지 않았습니다.'},
+ results:{title:'어떤 8셀 후보가 설정한 편차를 충족하나요?',description:'비교 실행 후 후보별 전압·내부저항·용량 편차와 구성 셀을 함께 봅니다.',items:[['전압 편차','후보 편차 / 허용값'],['내부저항 편차','후보 편차 / 허용값'],['용량 편차','후보 편차 / 허용값']],steps:['같은 조건의 셀','고정 알고리즘 비교','8셀 후보 검토'],next:'비교 실행 전입니다. 편차 충족은 검사 합격이나 수명·안전성 검증이 아닙니다.'},
+ operations:{title:'현장에 적용하기 전에 무엇을 확인해야 하나요?',description:'기존 팩 구성과 검사 사례를 연구 후보와 대조하고 추가 검증을 정합니다.',items:[['기존 팩','구성 셀 · 측정 조건'],['현장 검사','검사 이력 · 판정 근거'],['연구 후보','편차 · 구성 차이']],steps:['현장 근거 확보','후보와 대조','독립 검증·승인'],next:'자료 선택 후 연결된 기존 팩을 확인합니다. 연구 결과는 운영에 자동 적용되지 않습니다.'}
+};
+export default function DecisionPreview({stage,action}:{stage:keyof typeof views;action?:ReactNode}){const v=views[stage];return <section className="decision-preview" aria-label="분석 미리보기"><header><h3>{v.title}</h3><p>{v.description}</p></header><div className="decision-preview-grid">{v.items.map(([title,unit])=><section className="decision-preview-chart" key={title}><h4>{title}</h4><small>{unit}</small><div className={stage==='data'||stage==='results'?'decision-empty-axis':'decision-empty-link'}><span>{stage==='results'?'비교 실행 대기':'자료 대기'}</span></div></section>)}</div><ol className="decision-flow">{v.steps.map(t=><li key={t}>{t}</li>)}</ol><p className="field-footnote">{v.next} 빈 영역은 0값이나 분석 결과를 의미하지 않습니다.</p>{action}</section>;}

diff --git a/src/research/fieldStudy.css b/src/research/fieldStudy.css
@@ -508,3 +508,31 @@
 .field-histogram span {
   height: max(var(--chart-histogram-bar-min),calc(var(--bar-ratio,0) * var(--chart-histogram-bar-height)))
 }
+
+/* Analysis remains recognizable before evidence is supplied. */
+.field-region-label {font-size:var(--type-caption-size);font-weight:var(--weight-semibold);color:var(--color-ink-muted);margin-bottom:var(--space-8)}
+.field-analysis-toolbar {display:flex;align-items:center;justify-content:space-between;gap:var(--space-8);margin-bottom:var(--space-8)}
+.field-analysis-toolbar .field-region-label {margin:0}
+.decision-preview h3,.decision-preview h4 {margin:0}
+.decision-preview header p {margin:var(--space-8) 0 var(--space-16)}
+.decision-preview-grid {display:grid;grid-template-columns:repeat(3,minmax(0,1fr));gap:var(--space-12)}
+.decision-preview-chart {min-width:0;border:var(--border-width) solid var(--color-border);border-radius:var(--radius-control);padding:var(--space-12);background:var(--color-surface-subtle)}
+.decision-preview-chart small {color:var(--color-ink-muted)}
+.decision-empty-axis,.decision-empty-link {display:grid;place-items:center;min-height:72px;margin-top:var(--space-12);color:var(--color-ink-muted);font-size:var(--type-caption-size)}
+.decision-empty-axis {border-left:var(--border-width) solid var(--color-border);border-bottom:var(--border-width) solid var(--color-border);background:repeating-linear-gradient(to top,transparent 0,transparent 24px,var(--color-border) 25px)}
+.decision-empty-axis span,.decision-empty-link span {background:var(--color-surface-subtle);padding:var(--space-4) var(--space-8)}
+.decision-empty-link {border:var(--border-width) dashed var(--color-border);border-radius:var(--radius-control)}
+.decision-flow {display:flex;list-style:none;padding:0;margin:var(--space-16) 0;gap:var(--space-8);flex-wrap:wrap}
+.decision-flow li {flex:1;min-width:0;font-size:var(--type-caption-size);padding:var(--space-8);border-bottom:var(--border-strong-width) solid var(--color-border)}
+.decision-flow li+li:before {content:'→ ';color:var(--color-ink-muted)}
+@media(max-width:700px){.decision-preview-grid{grid-template-columns:1fr}.decision-empty-axis,.decision-empty-link{min-height:64px}.decision-flow{flex-direction:column}}
+
+@media(max-width:700px){
+ .decision-preview-chart {display:grid;grid-template-columns:minmax(0,1fr) minmax(0,1fr);column-gap:var(--space-8);padding:var(--space-8)}
+ .decision-preview-chart h4 {grid-column:1;grid-row:1}
+ .decision-preview-chart small {grid-column:1;grid-row:2}
+ .decision-empty-axis,.decision-empty-link {grid-column:2;grid-row:1 / 3;min-height:48px;margin:0}
+ .decision-preview-grid {gap:var(--space-8)}
+}
+
+@media(max-width:700px){.decision-preview header p{margin:var(--space-4) 0 var(--space-8)}.decision-empty-axis,.decision-empty-link{min-height:40px}}

diff --git a/tests/research-empty.spec.ts b/tests/research-empty.spec.ts
@@ -1,0 +1,12 @@
+import {test,expect} from '@playwright/test';
+import {navigate,step,researchSide} from './workspace';
+for(const width of [1366,390])test('research explains analysis before data '+width,async({page})=>{
+ await page.setViewportSize({width,height:768});await page.goto('/batt/');await page.getByRole('button',{name:'가상 데이터로 공정 체험',exact:true}).click();await navigate(page,'알고리즘 검증');
+ const active=page.locator('.task-step-panel:visible');await expect(active.getByRole('region',{name:'분석 미리보기'})).toBeVisible();await expect(active.locator('.decision-preview-chart')).toHaveCount(3);await expect(active.locator('.decision-empty-axis').first()).toContainText('자료 대기');await page.screenshot({path:'test-results/research-empty-'+width+'.png'});
+ await active.getByRole('button',{name:'입력·설정 열기 →',exact:true}).click();await expect(active.locator('.research-import')).toHaveAttribute('open','');await expect(page.getByLabel('데이터 출처',{exact:true})).toBeFocused();await expect(page.getByLabel('데이터 출처',{exact:true})).toBeInViewport({ratio:1});
+ await step(page,'2. 비교 조건');await researchSide(page,'evidence');await expect(active.getByRole('heading',{name:'8셀 조합 연구에 필요한 근거가 연결됐나요?'})).toBeVisible();
+ await step(page,'1. 연구 데이터');await researchSide(page,'controls');expect(await active.locator('.field-study-controls').evaluate(e=>e.scrollTop)).toBe(0);
+ await step(page,'3. 검증 결과');await researchSide(page,'evidence');await expect(active.locator('.decision-empty-axis').first()).toContainText('비교 실행 대기');
+ await step(page,'4. 운영 적용 검토');await researchSide(page,'evidence');await expect(active.getByRole('heading',{name:'현장에 적용하기 전에 무엇을 확인해야 하나요?'})).toBeVisible();
+ await step(page,'연구 문헌');await expect(page.getByRole('region',{name:'선택 연구 활용 범위'})).toContainText('고객 CSV와 비교');await page.getByRole('button',{name:'이 연구의 데이터 준비 비교',exact:true}).click();await expect(page.getByRole('button',{name:'고객 데이터 비교',exact:true})).toBeVisible();expect(await page.evaluate(()=>document.documentElement.scrollWidth<=innerWidth)).toBe(true);
+});

diff --git a/src/research/literature.css b/src/research/literature.css
@@ -240,3 +240,14 @@
     gap: var(--space-12)
   }
 }
+
+.study-decision-map {border-top:var(--border-width) solid var(--color-border);padding-top:var(--space-12);margin-top:var(--space-8)}
+.literature-list h3 {margin:0;font-size:var(--type-subheading-size)}
+.study-decision-map ol {list-style:none;padding:0;margin:var(--space-12) 0;border-left:var(--border-strong-width) solid var(--color-border)}
+.study-decision-map li {padding:var(--space-8) var(--space-12)}
+.study-decision-map small,.study-decision-map strong,.study-decision-map span {display:block}
+.study-decision-map small {color:var(--color-ink-muted)}
+
+.study-decision-map ol {display:grid;grid-template-columns:repeat(3,minmax(0,1fr));border-left:0;gap:var(--space-8)}
+.study-decision-map li {padding:var(--space-8) 0;border-top:var(--border-strong-width) solid var(--color-border);font-size:var(--type-caption-size)}
+.study-decision-map p {margin:var(--space-8) 0}
